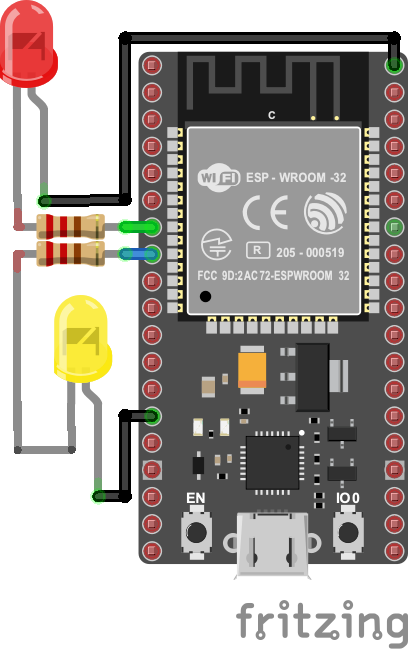
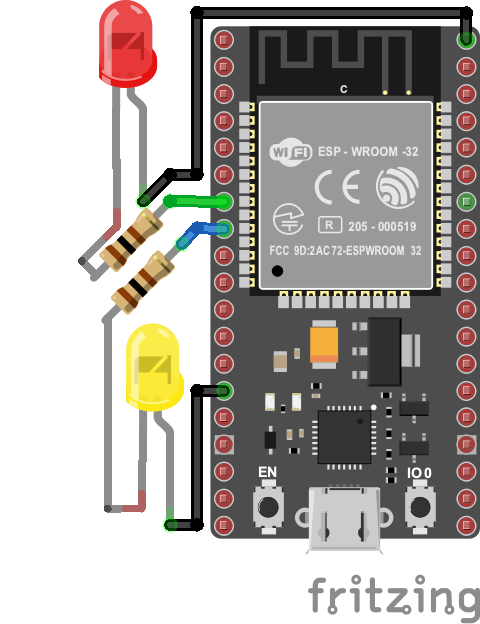
fix light percentage

diff --git a/esp/esp-act/actuating/main/main.c b/esp/esp-act/actuating/main/main.c
@@ -7,7 +7,7 @@
 #include "freertos/FreeRTOS.h"
 #include "freertos/task.h"
 #include "freertos/timers.h"
-
+#include <math.h>
 #include "shared.h"
 
 static const char *E_TAG = "MAIN";
@@ -139,7 +139,14 @@ void taskAmbientLight(void *pvParameters){
         xTaskNotifyWait(0x00, 0xFFFFFFFF, &brightness, portMAX_DELAY);
         ESP_LOGI("LIGHT", "Artwork illumination change event received!");
 
-        uint32_t duty = (brightness * 255) / 100;
+        // Gamma correction: l'occhio percepisce la luminosita' in modo
+        // logaritmico, non lineare. Senza questa curva, la seconda meta'
+        // della scala (specialmente >70%) risulta visivamente quasi
+        // indistinguibile pur essendo elettricamente corretta.
+        float normalized = brightness / 100.0f;
+        float gamma_corrected = powf(normalized, 2.2f);
+        uint32_t duty = (uint32_t)(gamma_corrected * 255.0f);
+
         ledc_set_duty(LEDC_LOW_SPEED_MODE, LEDC_CHANNEL_0, duty);
         ledc_update_duty(LEDC_LOW_SPEED_MODE, LEDC_CHANNEL_0);
 
